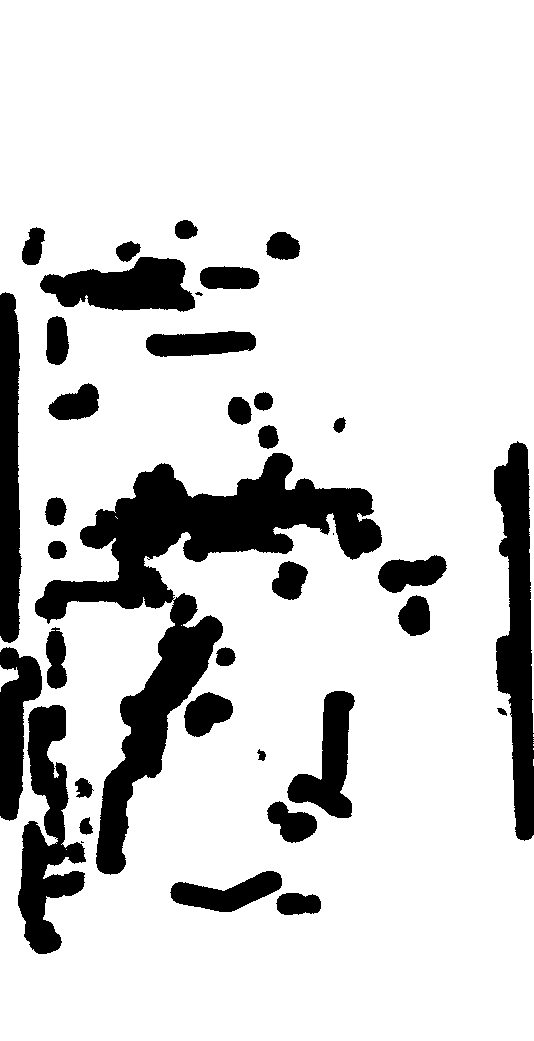
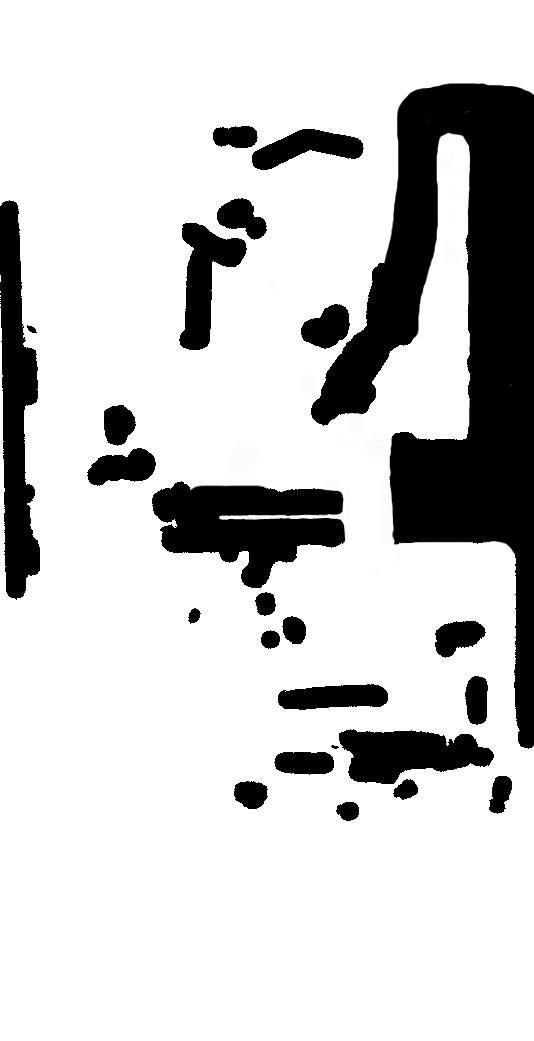
修复局部地图无法正确更新

Changed region(s): [[0.0, 0.0615, 1.0, 0.9222]]

diff --git a/src/Maps/OccupencyMap/OccupancyMapSubscript.cs b/src/Maps/OccupencyMap/OccupancyMapSubscript.cs
@@ -60,15 +60,17 @@ class OccupancyMapSubscript : Component, IGridMap, ISafeCorridorGenerator
 
   public SafeCorridorData Generate(Vector3d[] pointList, double maxLength = 2)
   {
+    const double iterator = 0.3d;
     SafeCorridorData rectangles = new();
-    if (_data is null) return rectangles;
+    if (_data is null || pointList.Length < 2) return rectangles;
+    rectangles.PushIn(new(pointList[0].x, pointList[0].y, pointList[0].x, pointList[0].y, Matrix.Identity(2)));
     for (int i = 1; i < pointList.Length; i++)
     {
       var origin = ((pointList[i] + pointList[i - 1]) / 2).xy;
       var XDir = (pointList[i] - pointList[i - 1]).xy.Normalized;
       var YDir = new Vector2d(-XDir.y, XDir.x);
       var angle = -Math.Atan2(XDir.y, XDir.x);
-      double LengthX = (pointList[i] - pointList[i - 1]).Length + _data.Resolution;
+      double LengthX = Math.Round((pointList[i] - pointList[i - 1]).Length / _data.Resolution, MidpointRounding.AwayFromZero) * _data.Resolution;
       double LengthY = _data.Resolution;
 
       double[,] rotation = Matrix.Identity(2);
@@ -92,8 +94,8 @@ class OccupancyMapSubscript : Component, IGridMap, ISafeCorridorGenerator
                 break;
               }
               bool check = true;
-              var tmp = LengthY + _data.Resolution;
-              for (double k = 0; k < LengthX; k += _data.Resolution)
+              var tmp = LengthY + iterator;
+              for (double k = 0; k < LengthX; k += iterator)
               {
                 var pos = origin + (k - LengthX / 2) * XDir + tmp / 2 * YDir;
                 if (!CheckAccessibility(new Vector3d(pos.x, pos.y, 0)))
@@ -106,7 +108,7 @@ class OccupancyMapSubscript : Component, IGridMap, ISafeCorridorGenerator
                 flag &= ~j;
               else
               {
-                origin += _data.Resolution / 2 * YDir;
+                origin += iterator / 2 * YDir;
                 LengthY = tmp;
               }
               break;
@@ -119,8 +121,8 @@ class OccupancyMapSubscript : Component, IGridMap, ISafeCorridorGenerator
                 break;
               }
               bool check = true;
-              var tmp = LengthX + _data.Resolution;
-              for (double k = 0; k < LengthY; k += _data.Resolution)
+              var tmp = LengthX + iterator;
+              for (double k = 0; k < LengthY; k += iterator)
               {
                 var pos = origin + (k - LengthY / 2) * YDir + tmp / 2 * XDir;
                 if (!CheckAccessibility(new Vector3d(pos.x, pos.y, 0)))
@@ -133,7 +135,7 @@ class OccupancyMapSubscript : Component, IGridMap, ISafeCorridorGenerator
                 flag &= ~j;
               else
               {
-                origin += _data.Resolution / 2 * XDir;
+                origin += iterator / 2 * XDir;
                 LengthX = tmp;
               }
               break;
@@ -146,8 +148,8 @@ class OccupancyMapSubscript : Component, IGridMap, ISafeCorridorGenerator
                 break;
               }
               bool check = true;
-              var tmp = LengthY + _data.Resolution;
-              for (double k = 0; k < LengthX; k += _data.Resolution)
+              var tmp = LengthY + iterator;
+              for (double k = 0; k < LengthX; k += iterator)
               {
                 var pos = origin + (k - LengthX / 2) * XDir - tmp / 2 * YDir;
                 if (!CheckAccessibility(new Vector3d(pos.x, pos.y, 0)))
@@ -160,7 +162,7 @@ class OccupancyMapSubscript : Component, IGridMap, ISafeCorridorGenerator
                 flag &= ~j;
               else
               {
-                origin -= _data.Resolution / 2 * YDir;
+                origin -= iterator / 2 * YDir;
                 LengthY = tmp;
               }
               break;
@@ -173,8 +175,8 @@ class OccupancyMapSubscript : Component, IGridMap, ISafeCorridorGenerator
                 break;
               }
               bool check = true;
-              var tmp = LengthX + _data.Resolution;
-              for (double k = 0; k < LengthY; k += _data.Resolution)
+              var tmp = LengthX + iterator;
+              for (double k = 0; k < LengthY; k += iterator)
               {
                 var pos = origin + (k - LengthY / 2) * YDir - tmp / 2 * XDir;
                 if (!CheckAccessibility(new Vector3d(pos.x, pos.y, 0)))
@@ -187,7 +189,7 @@ class OccupancyMapSubscript : Component, IGridMap, ISafeCorridorGenerator
                 flag &= ~j;
               else
               {
-                origin -= _data.Resolution / 2 * XDir;
+                origin -= iterator / 2 * XDir;
                 LengthX = tmp;
               }
               break;
@@ -199,11 +201,13 @@ class OccupancyMapSubscript : Component, IGridMap, ISafeCorridorGenerator
       }
       // if (LengthX - 0.4 >= 0.3)
       //   LengthX -= 0.4;
-      LengthY *= 0.8;
+      // LengthY *= 0.5;
+      // LengthX *= 0.8;
       var max = origin + XDir * LengthX / 2 + YDir * LengthY / 2;
       var min = origin - XDir * LengthX / 2 - YDir * LengthY / 2;
       rectangles.PushIn(new(min.x, min.y, max.x, max.y, rotation));
     }
+    rectangles.PushIn(new(pointList[^1].x, pointList[^1].y, pointList[^1].x, pointList[^1].y, Matrix.Identity(2)));
     return rectangles;
   }
 }

diff --git a/src/ALPlanner/TrajectoryOptimizer/CurveOptimizer/BSpline/SafetyBSpline.cs b/src/ALPlanner/TrajectoryOptimizer/CurveOptimizer/BSpline/SafetyBSpline.cs
@@ -9,8 +9,9 @@ class SafetyBSpline : Component, IKOrderBSpline
 
     Transform sentry;
 
+    public Vector3d SentryPos;
     private double _vLimit = 6.0;
-    private double _aLimit = 1.2;
+    private double _aLimit = 1.5;
     private double _ratioLimit = 1.01;
     public double[] controlPointsX = [];
     public double[] controlPointsY = [];
@@ -70,11 +71,18 @@ class SafetyBSpline : Component, IKOrderBSpline
         var k = new double[1, 4] { { 0, 0, 20, 6 } }.Dot(tmpM);
         H4S = H4S.Add(k.TransposeAndDot(k));
     }
-    public void Construction(ConstraintCollection positionList)
+    public override void Update()
+    {
+        SentryPos = sentry.Position;
+    }
+    private void Reset()
     {
         controlPointsX = [];
         controlPointsY = [];
         timeline = [0];
+    }
+    public void Construction(ConstraintCollection positionList)
+    {
         if (positionList.Length == 0)
             return;
         var time = positionList.TimeStep;
@@ -95,23 +103,25 @@ class SafetyBSpline : Component, IKOrderBSpline
             [i                      , i + 1                         , i + 2                        , i + 3                      ,
             i + controlPointsLength , i + controlPointsLength + 1   , i + controlPointsLength + 2  , i + controlPointsLength + 3]))
                 linearConstraint.Add(c);
-
-            foreach (var c in ConstraintHelper.BuildConstraint(controlPointsLength * 2, tmpX.Rotation.GetRow(0), tmpX, variablesAtIndices: [i + 2, i + controlPointsLength + 2]))
-                linearConstraint.Add(c);
-            foreach (var c in ConstraintHelper.BuildConstraint(controlPointsLength * 2, tmpX.Rotation.GetRow(1), tmpY, variablesAtIndices: [i + 2, i + controlPointsLength + 2]))
-                linearConstraint.Add(c);
+            if (tmpY.UpperBound - tmpY.LowerBound < 0.2)
+            {
+                foreach (var c in ConstraintHelper.BuildConstraint(controlPointsLength * 2, tmpX.Rotation.GetRow(0), tmpX, variablesAtIndices: [i + 2, i + controlPointsLength + 2]))
+                    linearConstraint.Add(c);
+                foreach (var c in ConstraintHelper.BuildConstraint(controlPointsLength * 2, tmpX.Rotation.GetRow(1), tmpY, variablesAtIndices: [i + 2, i + controlPointsLength + 2]))
+                    linearConstraint.Add(c);
+            }
             tmpX = tmpX.next;
             tmpY = tmpY.next;
         }
 
         linearConstraint.Add(ConstraintHelper.CreateLinearConstraint
-            (
-                controlPointsLength * 2,
-                tmpVelM.Divide(time),
-                ConstraintType.EqualTo,
-                [0, 1, 2, 3],
-                sentry.Velocity.x
-            ));
+                (
+                    controlPointsLength * 2,
+                    tmpVelM.Divide(time),
+                    ConstraintType.EqualTo,
+                    [0, 1, 2, 3],
+                    sentry.Velocity.x
+                ));
         linearConstraint.Add(ConstraintHelper.CreateLinearConstraint
         (
             controlPointsLength * 2,
@@ -169,7 +179,13 @@ class SafetyBSpline : Component, IKOrderBSpline
         for (int i = 0; i < controlPointsLength; i++)
             timeline[i + 3] = timeline[i + 2] + time;
         if (solver.Status == GoldfarbIdnaniStatus.Success)
+        {
             ReallocTimeline();
+        }
+        else
+        {
+            Reset();
+        }
     }
 
     public void OptimizeTrajectory()
@@ -181,7 +197,7 @@ class SafetyBSpline : Component, IKOrderBSpline
     public Vector3d Value(double timeInSecond)
     {
         int k = 2;
-        if (timeline.Length < 5) return new();
+        if (timeline.Length < 5) return SentryPos;
         timeInSecond = Math.Max(0, Math.Min(timeInSecond, timeline[^5]));
         while (timeline[k + 1] < timeInSecond)
             k++;
@@ -204,8 +220,8 @@ class SafetyBSpline : Component, IKOrderBSpline
     public IEnumerable<Vector3d> TrajectoryPoints(double fromWhen, double toWhen, double step)
     {
         List<Vector3d> data = [];
-        if(toWhen <= fromWhen || step < 0.01)
-        return data;
+        if (toWhen <= fromWhen || step < 0.01)
+            return data;
         for (var b = fromWhen + step; b <= toWhen + 1e-3; b += step)
             data.Add(Value(b));
         return data;

diff --git a/src/Maps/OccupencyMap/OccupancyMapGenerator.cs b/src/Maps/OccupencyMap/OccupancyMapGenerator.cs
@@ -81,7 +81,7 @@ class OccupancyMapGenerator : Component, IGridMap, ISafeCorridorGenerator
 
     _safeMap = new(IOManager);
     _safeMap.Subscript("/alplanner/save_map", _ => OccupancyGridMapHelper.Save(_data, SaveMapPath));
-    IO.ROS2Msgs.TF.TransformBoardcaster.Publish("world", "tlarc", -sentry.Position, Quaterniond.Identity);
+    IO.ROS2Msgs.TF.TransformBoardcaster.Publish("world_link", "tlarc", new(7.45, -3.7, 0), Quaterniond.Identity);
   }
 
   public override void Update()
@@ -98,9 +98,10 @@ class OccupancyMapGenerator : Component, IGridMap, ISafeCorridorGenerator
             _data.Update(x, y, _dynamicMap._map[i, j]);
         }
     }
+    _dynamicMap = null;
     _rosMapPublisher.Publish((_data.ToArray, _data.Resolution, (uint)_data.SizeX, (uint)_data.SizeY));
-    // var cp = _data.Copy();
-    // _mapPublisher.LoadInstance(ref cp);
+    var cp = _data.Copy();
+    _mapPublisher.LoadInstance(ref cp);
   }
 
   public bool CheckAccessibility(Vector3d index, float value = 0)

diff --git a/src/Maps/OccupencyMap/OccupencyMapHelper.cs b/src/Maps/OccupencyMap/OccupencyMapHelper.cs
@@ -68,6 +68,7 @@ static class OccupancyGridMapHelper
         using Stream entryStream = entry.Open();
         using FileStream imageStream = File.OpenWrite("/tmp/tmp.png");
         entryStream.CopyTo(imageStream);
+        imageStream.Close();
 
         var tmat = CvInvoke.Imread("/tmp/tmp.png", Emgu.CV.CvEnum.ImreadModes.Grayscale);
         tmat.ConvertTo(mat, Emgu.CV.CvEnum.DepthType.Cv8S);

diff --git a/src/TrajectoryTracer/VelocityController/ModelPredictController.cs b/src/TrajectoryTracer/VelocityController/ModelPredictController.cs
@@ -15,7 +15,7 @@ class VelocityMPC : Component, IPositionVelocityController
   public double rho = 10;
   public double[] U;
   public double[] uOut;
-  public const double uMax = 1.25;
+  public const double uMax = 1.8;
   public const double uMin = -uMax;
   public const double vMax = 6;
   public const double vMin = -vMax;

diff --git a/src/ALPlanner/PathPlanner/PathSearcher/HybridAstarWithDistance.cs b/src/ALPlanner/PathPlanner/PathSearcher/HybridAstarWithDistance.cs
@@ -45,7 +45,8 @@ class HybridAStarWithDistance : Component, IPathSearcher
       }
 
       var index = gridMap.PositionInWorldToIndex(current.PositionInWorld);
-
+      if (!gridMap.CheckAccessibility(index))
+        continue;
       if (_closeMap.Indexer(index))
         continue;
       _closeMap.Indexer(index, true);

diff --git a/src/TrajectoryTracer/Tracer.cs b/src/TrajectoryTracer/Tracer.cs
@@ -20,7 +20,7 @@ class Tracer : Component
   public override void Start()
   {
     pose2D = new(IOManager);
-    pose2D.RegistryPublisher("/sentry/transform/velocity");
+    pose2D.RegistryPublisher("/tlarc/control/velocity");
   }
 
   public override void Update()

diff --git a/src/Maps/OccupencyMap/OccupencyMapData.cs b/src/Maps/OccupencyMap/OccupencyMapData.cs
@@ -5,7 +5,7 @@ namespace Maps;
 
 class OccupancyMapData : IGridMap, IDisposable
 {
-  const float lo_occ = 30f;
+  const float lo_occ = 20f;
   const float lo_free = -7f;
   const sbyte lo_max = 90;
   const sbyte lo_min = 10;
